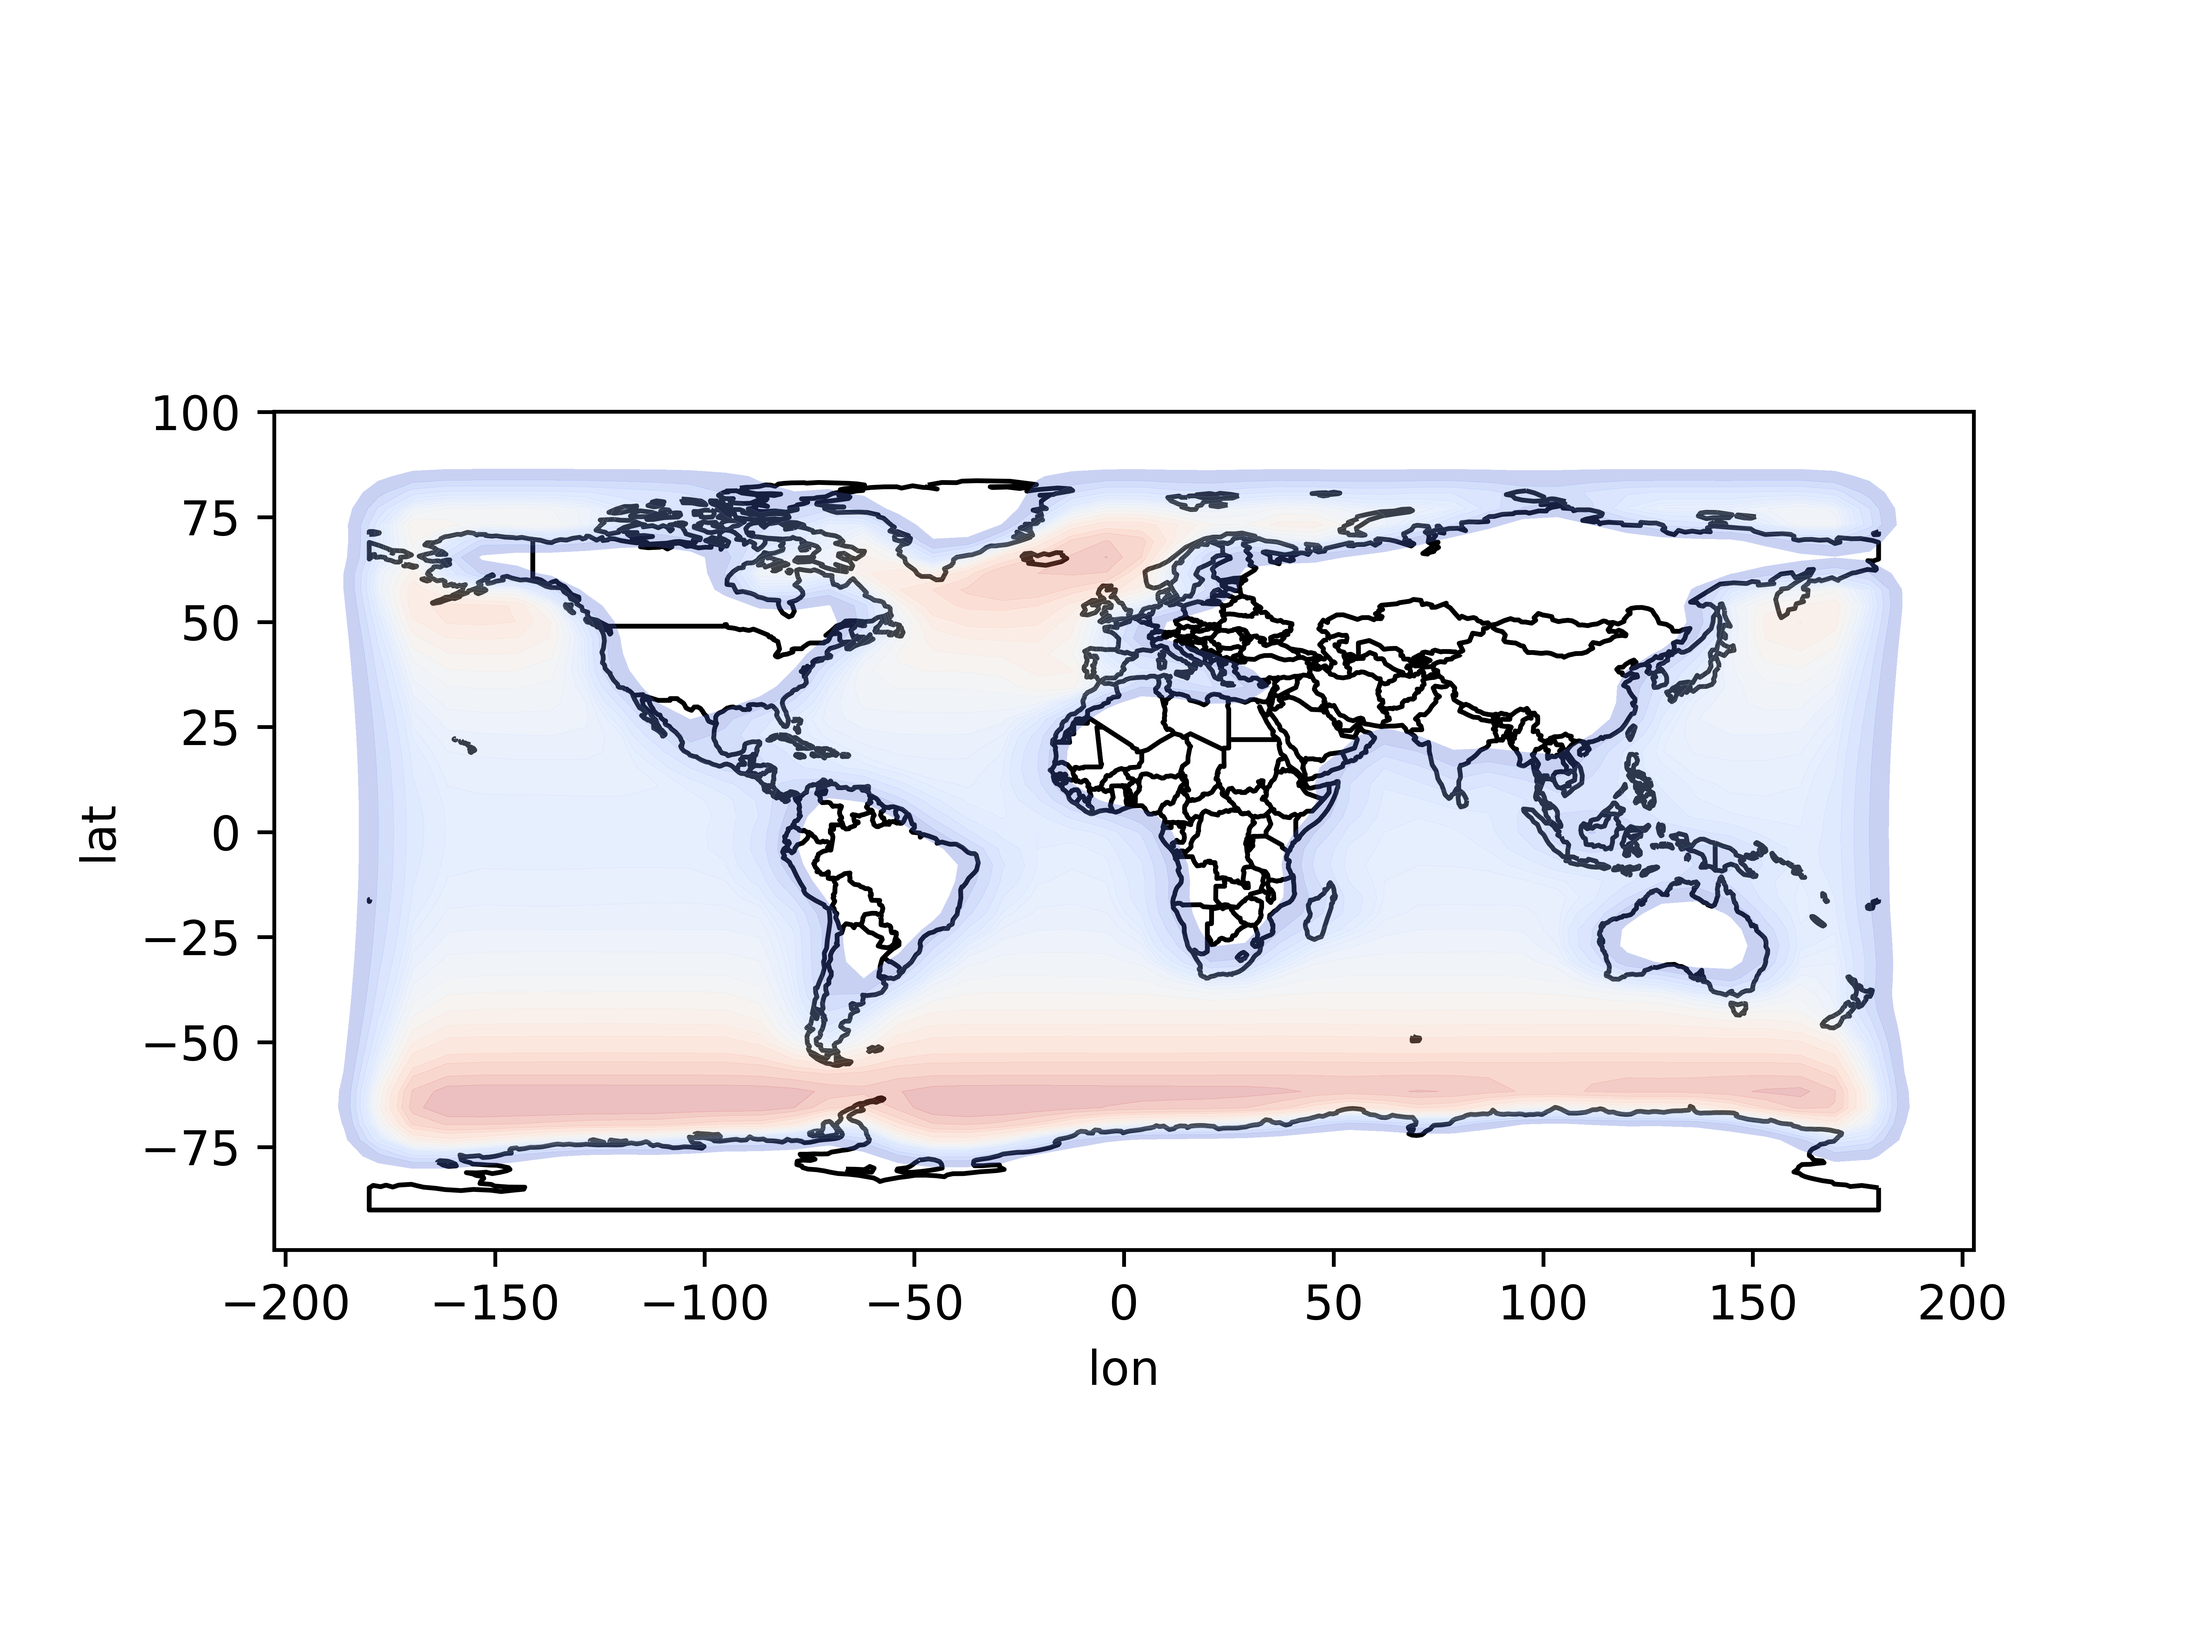
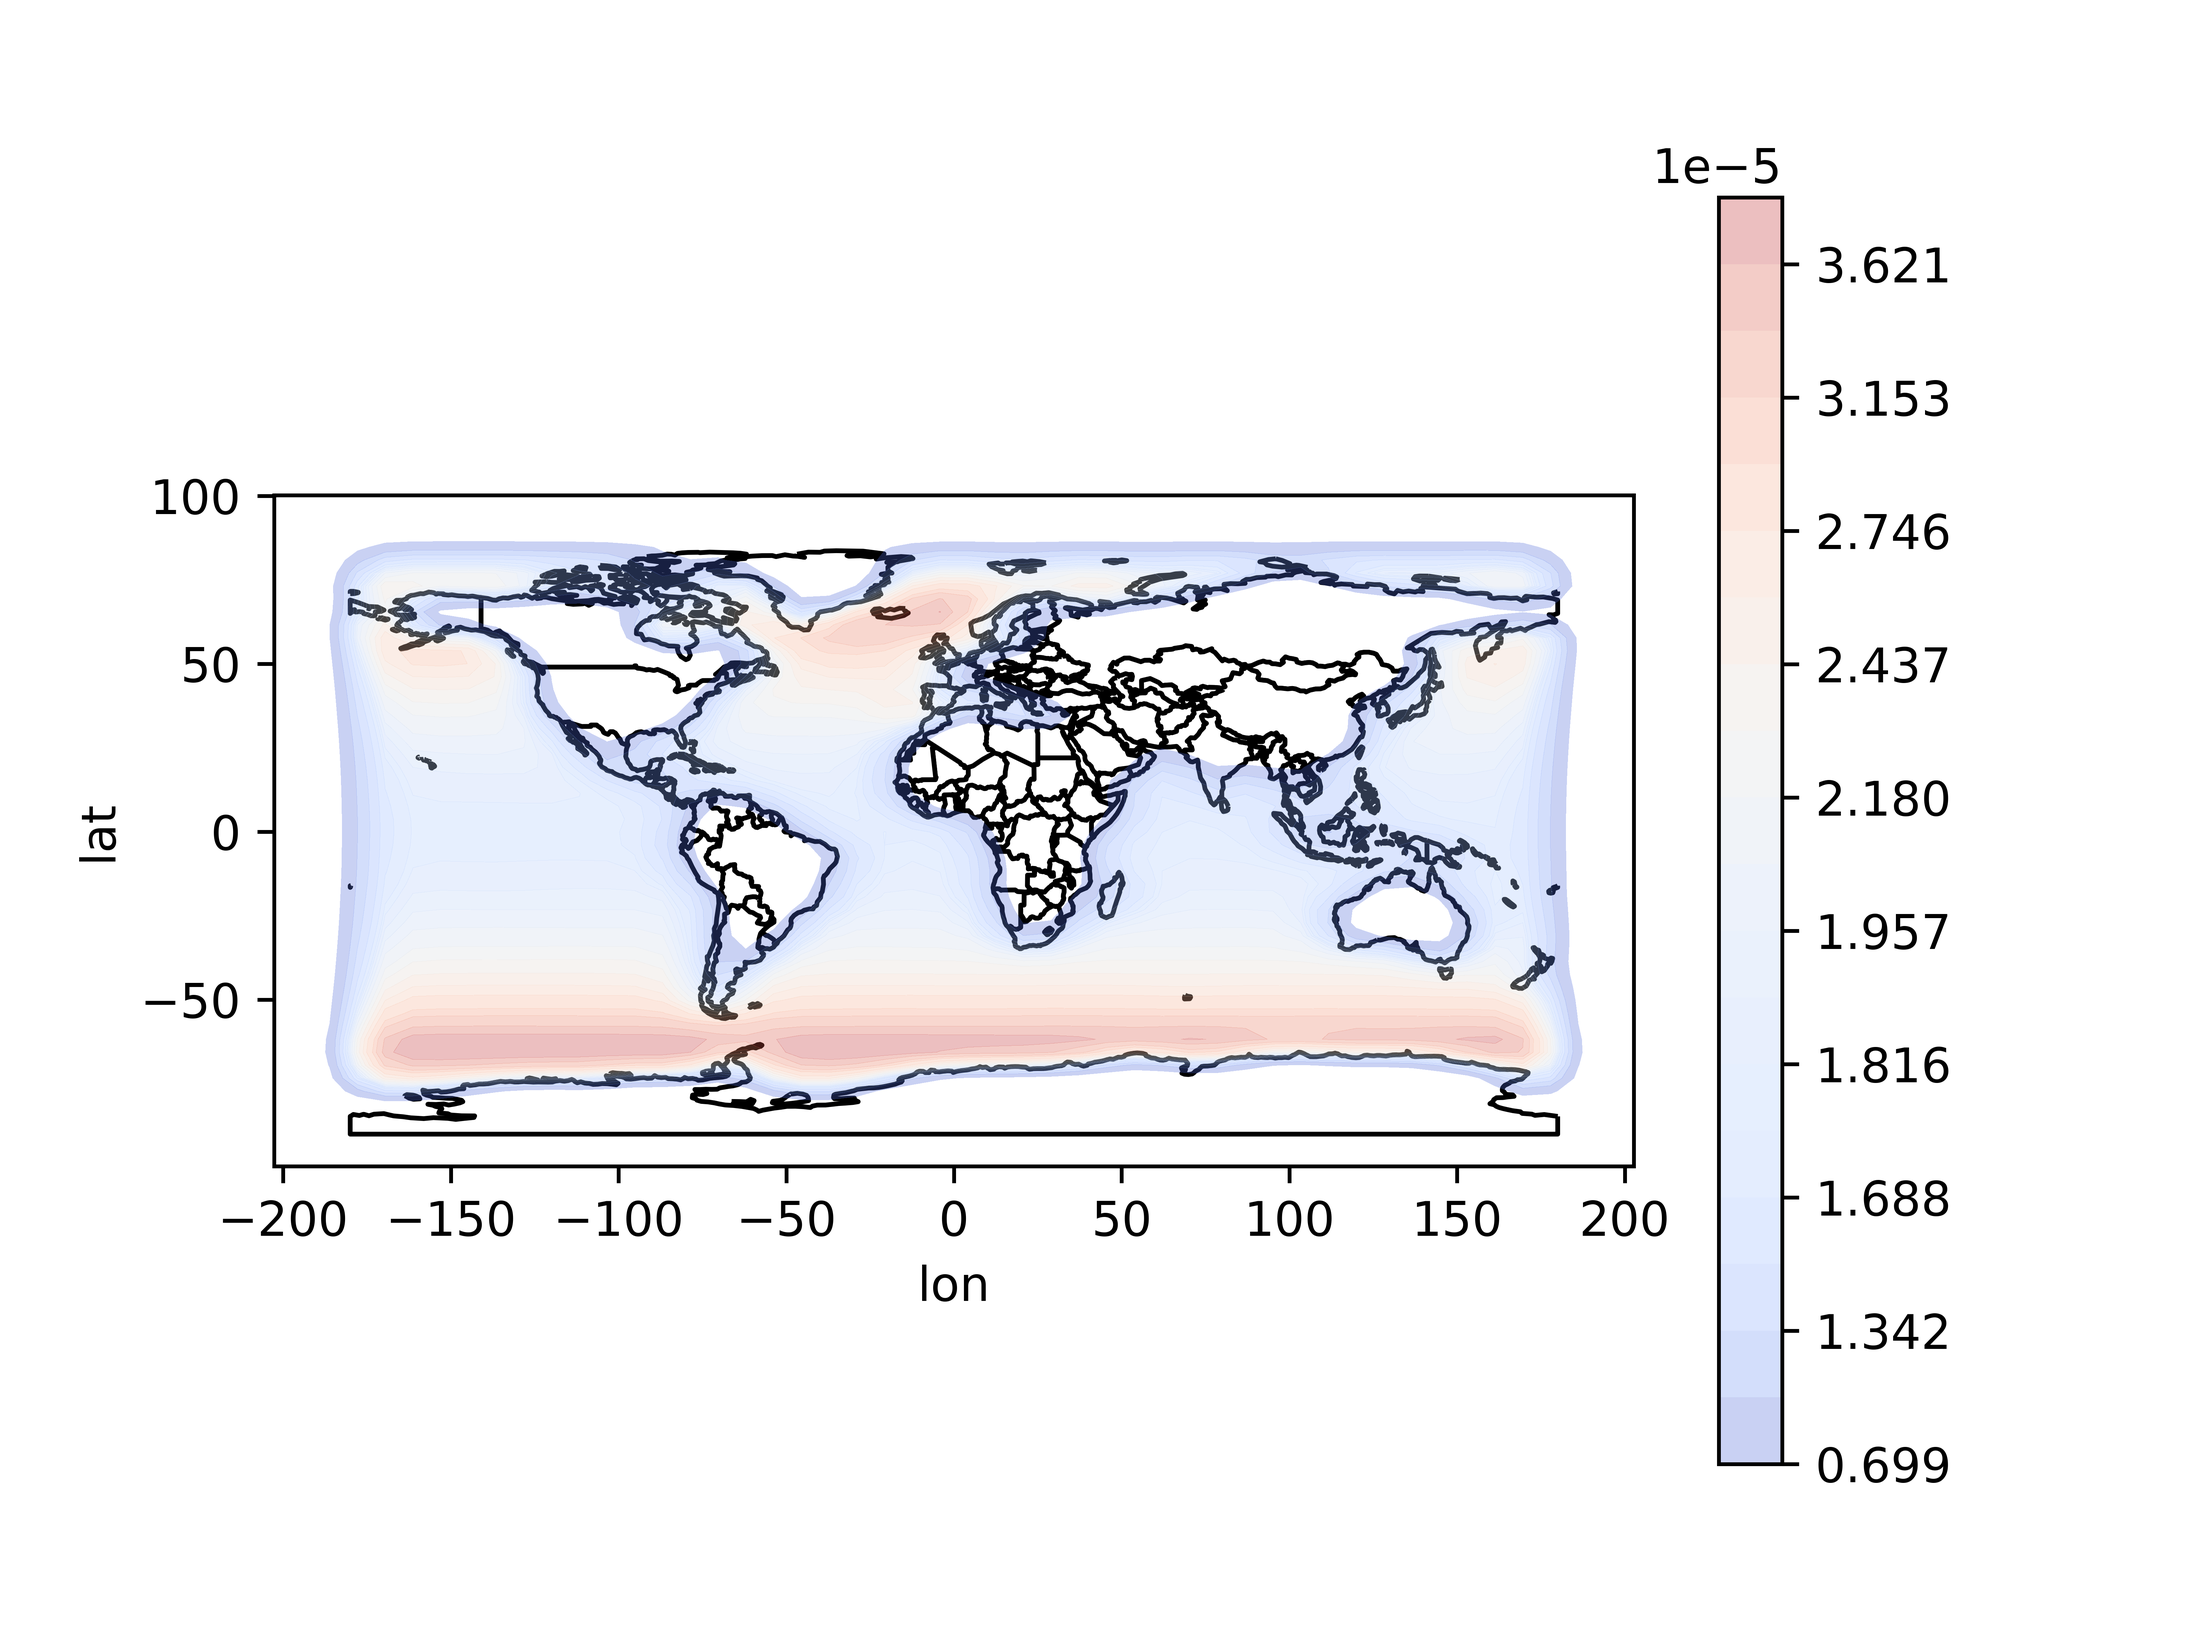
fixes

diff --git a/reading_data/plotting/map_plotter.py b/reading_data/plotting/map_plotter.py
@@ -2,6 +2,7 @@ import pandas as pd
 import xarray as xr
 import geopandas
 import seaborn as sns
+# import geoplot
 
 import matplotlib.pyplot as plt
 
@@ -17,24 +18,30 @@ def map_plot(df, grid, filename="map.png"):
     # gdf = geopandas.GeoDataFrame(df_grid, geometry=geopandas.points_from_xy(df_grid.lon, df_grid.lat))
     world = geopandas.read_file(geopandas.datasets.get_path('naturalearth_lowres'))
     ax = world.plot(color='white', edgecolor='black')
-    # gdf.plot(ax=ax, color='red')
-
-    # ax = geoplot.kdeplot(ssh_grid.head(1000), shade=True, cmap='Reds', projection=geoplot.crs.AlbersEqualArea())
-    # geoplot.polyplot(ssh_grid, ax=ax, zorder=1)
-
+    # # gdf.plot(ax=ax, color='red')
+    #
+    # ax = geoplot.kdeplot(df_grid.head(1000), shade=True, cmap='Reds', projection=geoplot.crs.AlbersEqualArea())
+    # geoplot.polyplot(df_grid, ax=ax, zorder=1)
+     # print(df_grid.sea_surface_elevation)
     print("KDE")
+    plt.tricontourf(df_grid.lon, df_grid.lat,df_grid.sea_surface_elevation, cmap='coolwarm', alpha = 0.3)
+    plt.colorbar()
+    #plt.scatter(x=df_grid.lon, y=df_grid.lat, c = df_grid.sea_surface_elevation)
+    # # sns.kdeplot(data=df_grid.head(10000),  # .iloc[start_index:start_index+3_000_000],
+    #             x='lon',
+    #             y='lat',
+    #             fill=True,
+    #             cmap='coolwarm',
+    #             alpha=0.3,
+    #             gridsize=50,
+    #             levels=20,
+    #             cbar=True,
+    #             hue="sea_surface_elevation",
+    #             warn_singular=False,
+    #             ax=ax)
 
-    sns.kdeplot(data=df_grid,  # .iloc[start_index:start_index+3_000_000],
-                x='lon',
-                y='lat',
-                fill=True,
-                cmap='coolwarm',
-                alpha=0.3,
-                gridsize=50,
-                levels=20,
-                ax=ax)
-
-    plt.savefig(filename, dpi=1000)
+    #plt.savefig(filename, dpi=1000)
+    plt.savefig("prova.png")
     plt.show()
 
 
@@ -44,8 +51,13 @@ vnod = loadNC("../reading_v/map_summarized_vnod.nc")
 mesh = xr.open_dataset("fesom.mesh.diag.nc")
 grid = pd.concat([mesh["lon"].to_dataframe(), mesh["lat"].to_dataframe()], axis=1)
 
-
-
-# map_plot(ssh, grid, filename="shh_map.png")
+print(ssh.head(10_000))
+#ssh.head(1_000_000).plot()
+#plt.show()
+# print(unod.head(1000))
+# unod.head(1_000_000).plot()
+# plt.show()
+# print(vnod.head(10))
+map_plot(ssh, grid, filename="shh_map.png")
 # map_plot(unod, grid, filename="unod_map.png")
-map_plot(vnod, grid, filename="vnod_map.png")
+# map_plot(vnod, grid, filename="vnod_map.png")

diff --git a/reading_data/reading_ssh.c b/reading_data/reading_ssh.c
@@ -174,9 +174,9 @@ int main () {
         if ((retval = nc_close(ncid2)))
         ERR(retval);
 
-        /*CLOSING FILE*/
-        if ((retval = nc_close(ncid)))
-        ERR(retval);
+//        /*CLOSING FILE*/
+//        if ((retval = nc_close(ncid)))
+//        ERR(retval);
 
     }
     // Finalize the MPI environment. No more MPI calls can be made after this
